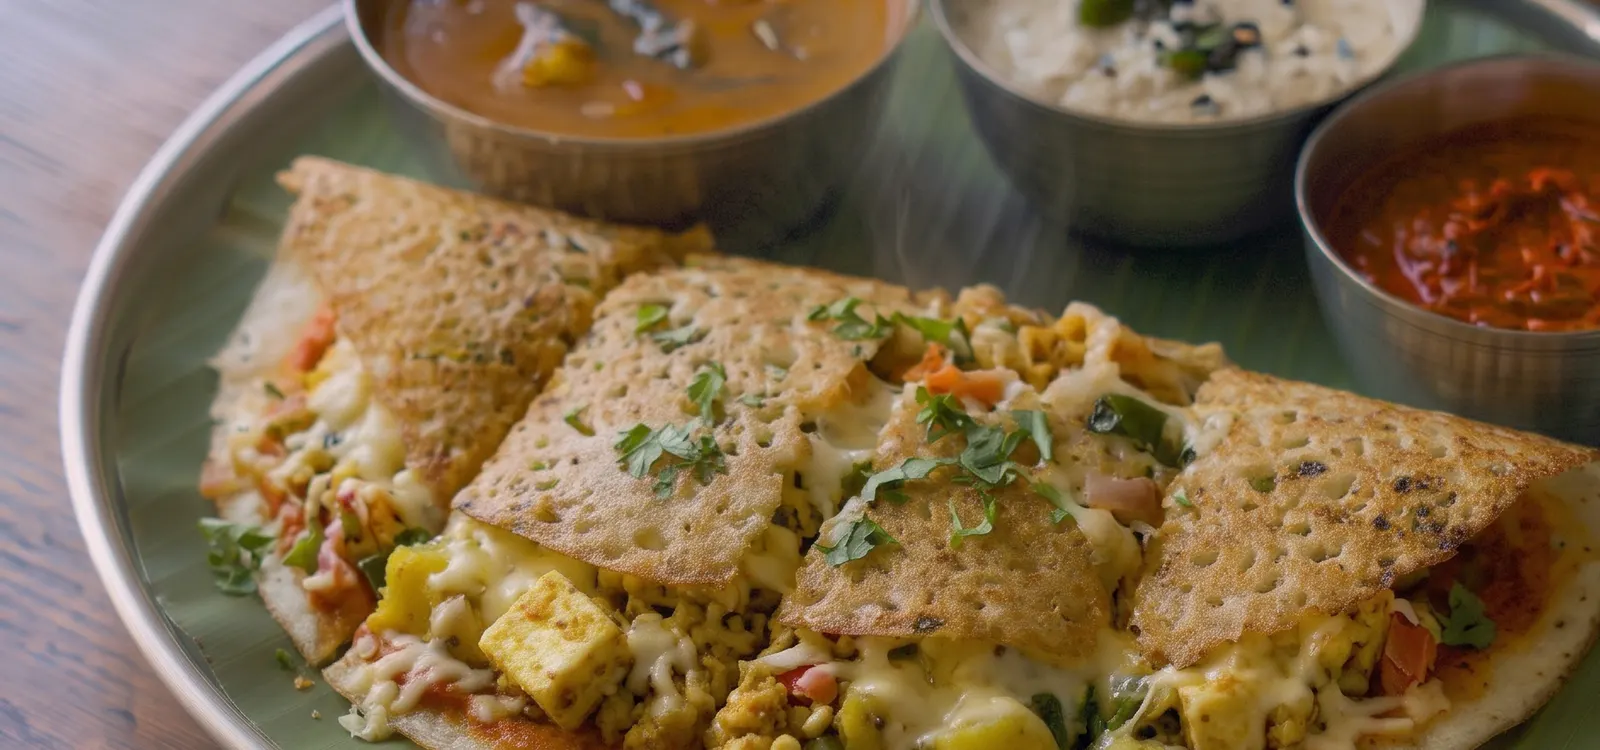
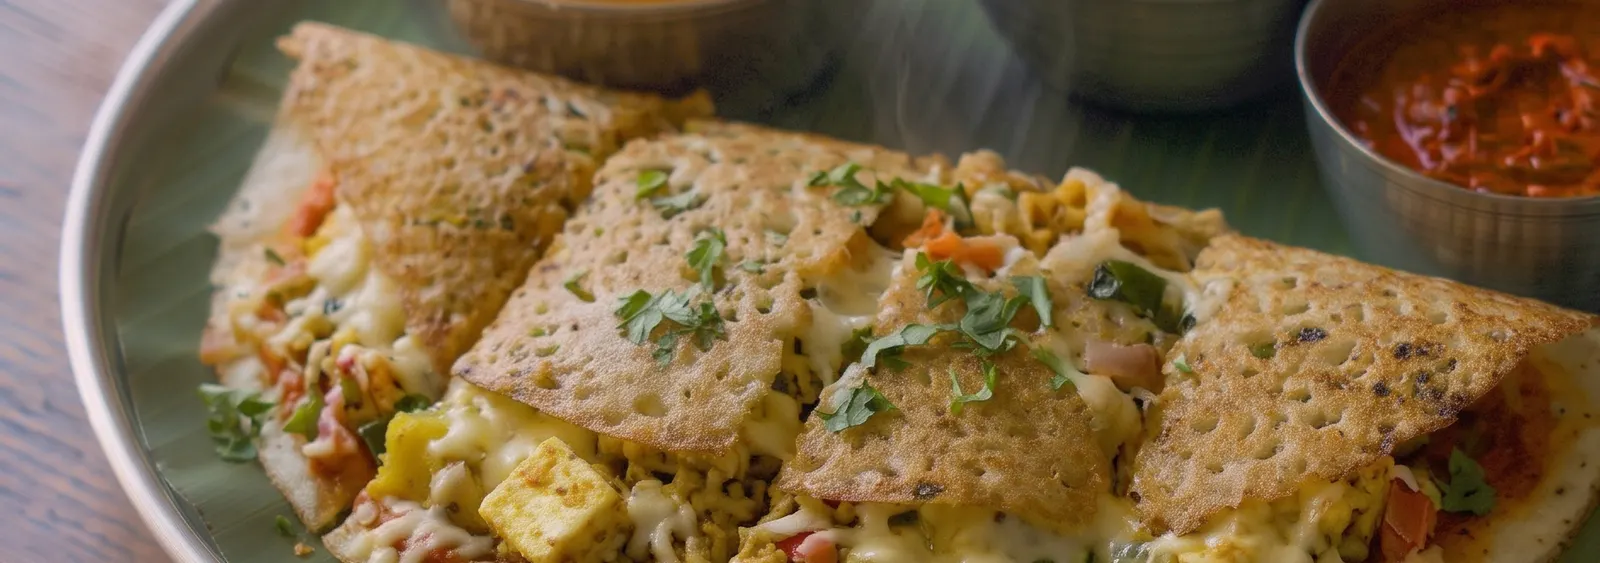
Showcase carousel: another 25% shorter
Claude-Session: https://claude.ai/code/session_0188JL23CpPpdujtzC6jA6e3

diff --git a/src/index.css b/src/index.css
@@ -402,7 +402,7 @@ a.cart-btn { text-decoration: none; }
 .showcase__track { display: flex; overflow-x: auto; scroll-snap-type: x mandatory; scrollbar-width: none; }
 .showcase__track::-webkit-scrollbar { display: none; }
 .showcase__slide { position: relative; flex: 0 0 100%; margin: 0; scroll-snap-align: start; }
-.showcase__img { width: 100%; height: auto; aspect-ratio: 16 / 7.5; object-fit: cover; }
+.showcase__img { width: 100%; height: auto; aspect-ratio: 16 / 5.625; object-fit: cover; }
 .showcase__caption {
   position: absolute; left: 1rem; bottom: 1rem; background: rgba(31, 74, 41, 0.85); color: #fff;
   padding: 0.35rem 0.85rem; border-radius: 999px; font-size: 0.9rem; font-weight: 600;
@@ -485,7 +485,7 @@ a.cart-btn { text-decoration: none; }
   section { padding: 3rem 0; }
   .showcase { padding: 0 0 2.5rem; }
   .showcase .container { width: 100%; }
-  .showcase__img { aspect-ratio: 4 / 3; }
+  .showcase__img { aspect-ratio: 16 / 9; }
   .showcase__carousel { border-radius: 0; }
   .showcase__arrow { width: 34px; height: 34px; font-size: 1.3rem; }
   .showcase__caption { left: 0.75rem; bottom: 0.75rem; font-size: 0.8rem; }

diff --git a/src/data.js b/src/data.js
@@ -32,7 +32,7 @@ export const favourites = [
 ]
 
 // Photos in the carousel above the facts strip. Each id needs
-// public/images/showcase/<id>-wide.webp (1600x750) and <id>-phone.webp (900x675).
+// public/images/showcase/<id>-wide.webp (1600x563) and <id>-phone.webp (900x506).
 export const showcaseSlides = [
   { id: 'idli', name: 'Idli (3 pcs)', alt: 'Three soft idlis on a banana leaf with sambar, coconut chutney and red chutney' },
   { id: 'special-dosa', name: "Idliyala's Special Dosa", alt: "Idliyala's Special Dosa loaded with cheese, paneer and vegetables, cut into pieces" },

diff --git a/src/components/Showcase.jsx b/src/components/Showcase.jsx
@@ -54,7 +54,7 @@ export default function Showcase() {
                     src={`/images/showcase/${s.id}-wide.webp`}
                     alt={s.alt}
                     width="1600"
-                    height="750"
+                    height="563"
                     loading={i === 0 ? 'eager' : 'lazy'}
                     decoding="async"
                   />
